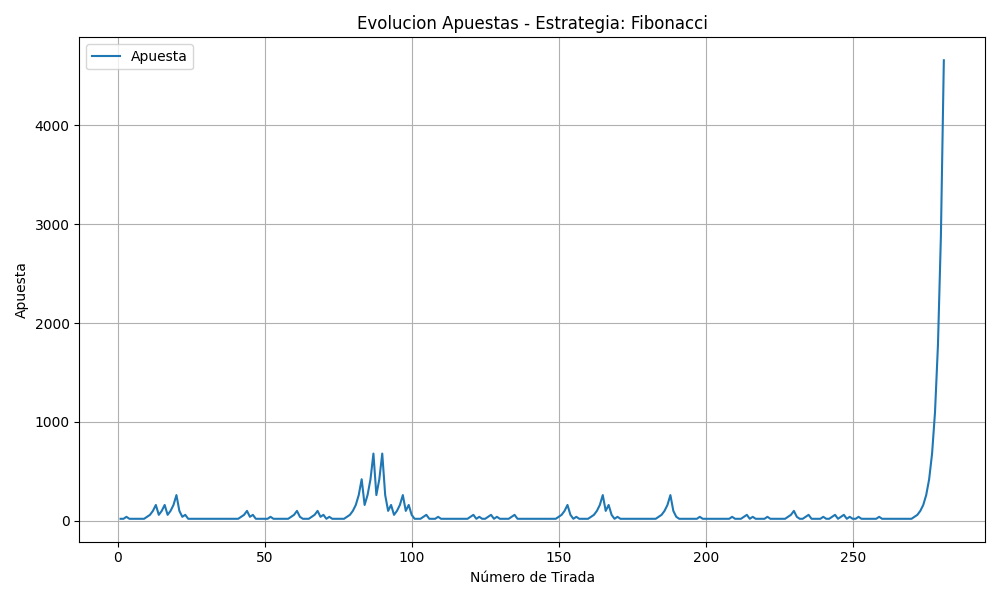
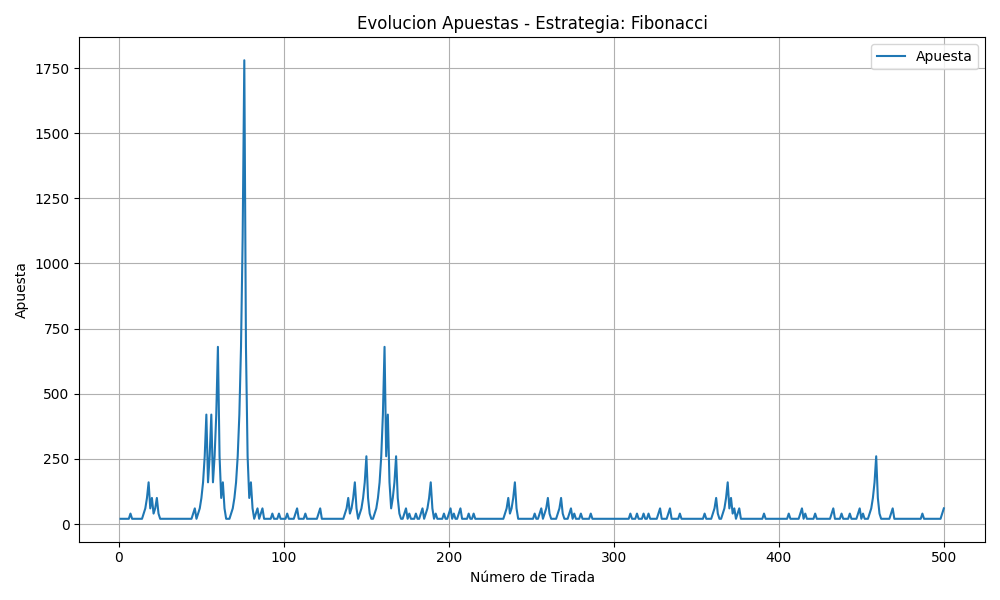
Arreglo de args

diff --git a/TP2/simulador.py b/TP2/simulador.py
@@ -12,17 +12,24 @@ def parse_arguments():
         description='Simulación de Ruleta Europea')
 
     parser.add_argument('-c', '--tiradas', type=int, default=10000,
-                        help='Cantidad de tiradas por corrida')
-    parser.add_argument('-n', '--corridas', type=int, default=200,
-                        help='Cantidad de corridas para la distribución de medias')
-    parser.add_argument('-e', '--elegido', type=int, default=18,
-                        help='Número elegido para análisis')
-    parser.add_argument('-s', '--estrategia', type=int, default=18,
+                        help='Cantidad de tiradas')
+    parser.add_argument('-s', '--estrategia', type=str, default='i',
                         help='Estrategia elegida para análisis')
-    parser.add_argument('-a', '--capital', type=int, default=18,
+    parser.add_argument('-a', '--capital', type=str, default='f',
                         help='"i": infinito "f" finito')
+    parser.add_argument('-i', '--apuesta', type=int, default=18,
+                        help='')
     
     return parser.parse_args()
+
+args = parse_arguments()
+cantidad_tiradas = args.tiradas
+if args.capital == 'i':
+    capital_ini = float('inf')
+else:
+    capital_ini = int(args.capital)
+estrategia= args.estrategia
+apuesta = args.apuesta
 
 nro_negros = {1,3,5,7,9,12,14,16,18,19,21,23,25,27,30,32,34,36}
 nro_rojos = {2,4,6,8,10,11,13,15,17,20,22,24,26,28,29,31,33,35}
@@ -231,26 +238,24 @@ def graficar_evolucion_apuestas(num_tiradas, historial_apuestas, estrategia):
 
 def main():
     # 1. Obtener parámetros del usuario
-    args = parse_arguments()
-    cantidad_tiradas = args.tiradas
-    numero_elegido = args.elegido
-    num_corridas = args.corridas
-    capital_ini= args.capital
-    estrategia= args.estrategia
+
 
 
     print(f'Capital: {args.capital}')
     print(f'Estrategia: {args.estrategia}')
     print(f'Cantidad de tiradas: {args.tiradas}')
-    print(f'Número elegido: {args.elegido}')
-    print(f'Cantidad de corridas: {args.corridas}')
     
     
 if __name__ == "__main__":
     main()
-    estrategia_fibonacci(10000,20,nro_rojos,500)
-    estrategia_dAlembert(10000,20,nro_rojos,500)
-    estrategia_martingala(10000,20,nro_rojos,500)
-    estrategia_paroli(10000,20,nro_rojos,500)
+if args.estrategia == 'i':
+    estrategia_fibonacci(capital_ini,apuesta,nro_rojos,cantidad_tiradas)
+if args.estrategia == 'd':
+    estrategia_dAlembert(capital_ini,apuesta,nro_rojos,cantidad_tiradas)
+if args.estrategia == 'm':
+    estrategia_martingala(capital_ini,apuesta,nro_rojos,cantidad_tiradas)
+if args.estrategia == 'p':
+    estrategia_paroli(capital_ini,apuesta,nro_rojos,cantidad_tiradas)
+ 
 
     
